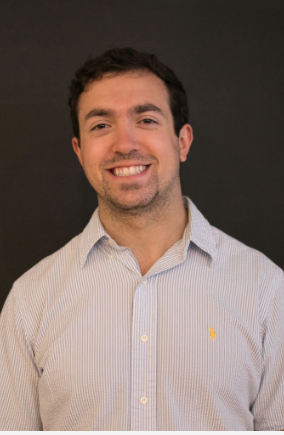
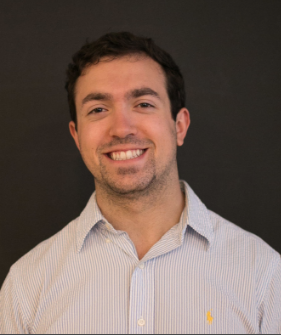
added foundation grid

diff --git a/app/assets/stylesheets/site.scss b/app/assets/stylesheets/site.scss
@@ -60,12 +60,23 @@
   animation: 20s slider infinite;
 }
 
-
-
+.aboutphoto {
+  margin-left: 50px;
+  margin-right: 50px;
+ text-align: center;
+}
 .aboutphoto img {
-  width: 300px;
+  width: 250px;
   height: 300px;
+  display: inline-block;
+  align-content: center;
 }
 .title{
   text-align: center;
+}
+
+.contraband{
+  background-color: white;
+  overflow: hidden;
+
 }
